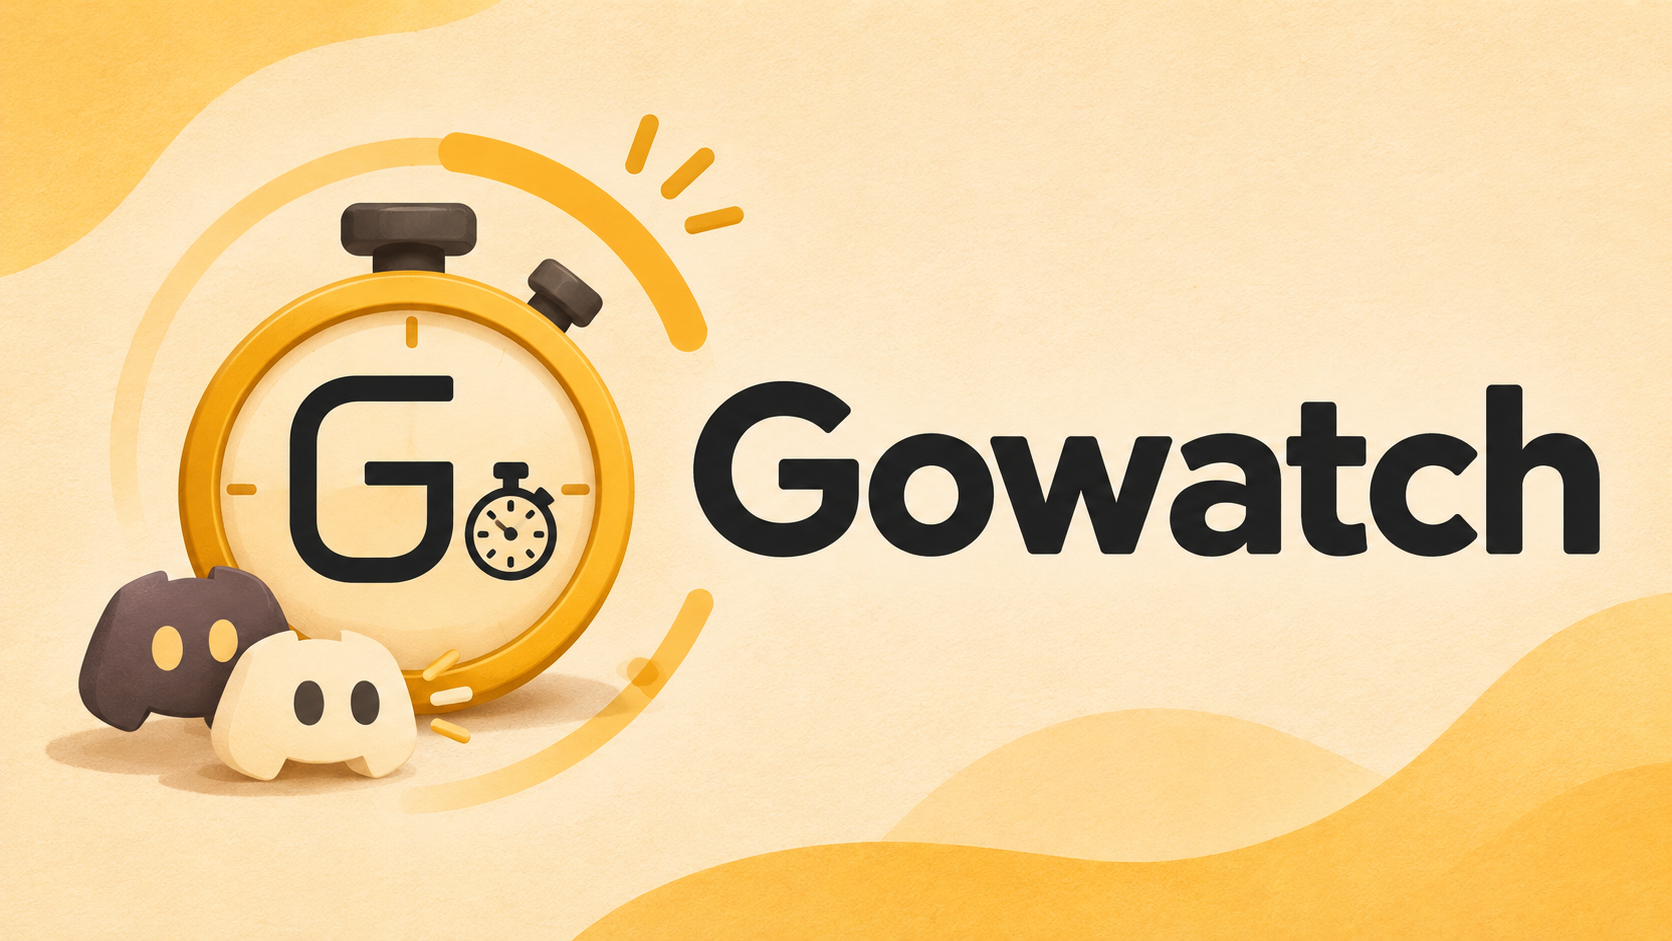
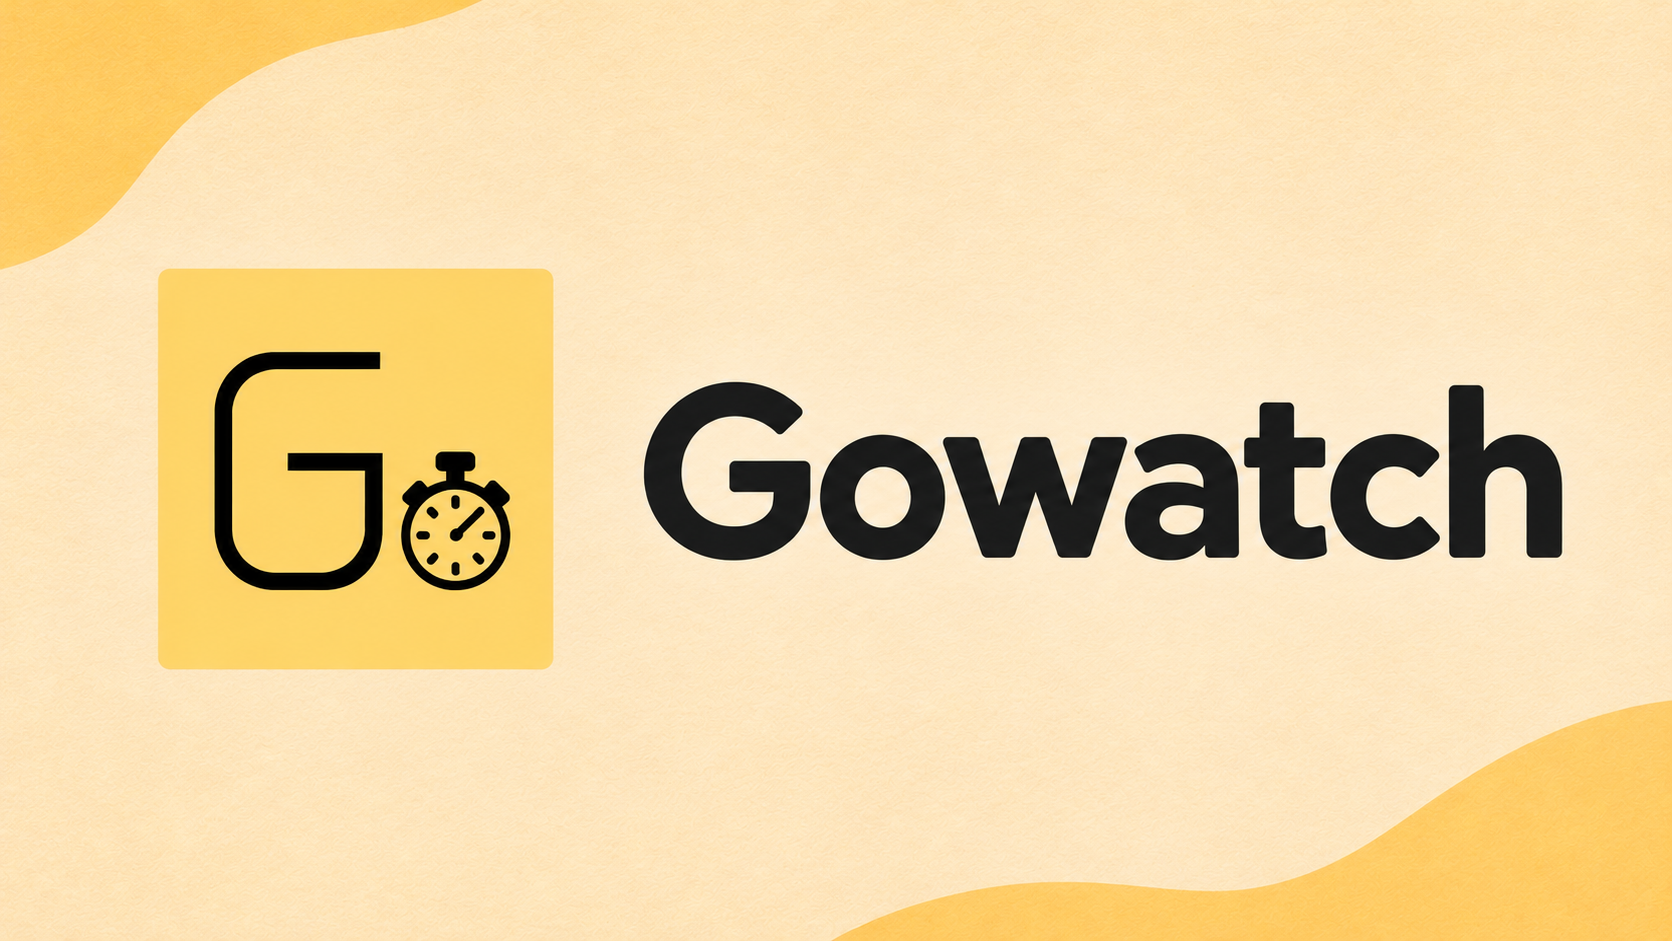
docs: 아이콘 배치형 소개 배너 적용

diff --git a/README.md b/README.md
@@ -1,6 +1,6 @@
 # Gowatch
 
-![Gowatch — Discord에서 함께 기록하는 집중 시간](public/gowatch-banner.png)
+![Gowatch 아이콘과 프로젝트명을 배치한 소개 배너](public/gowatch-banner.png)
 
 <img alt="Gowatch" src="./public/Gowatch.png" width="120"/>
 
